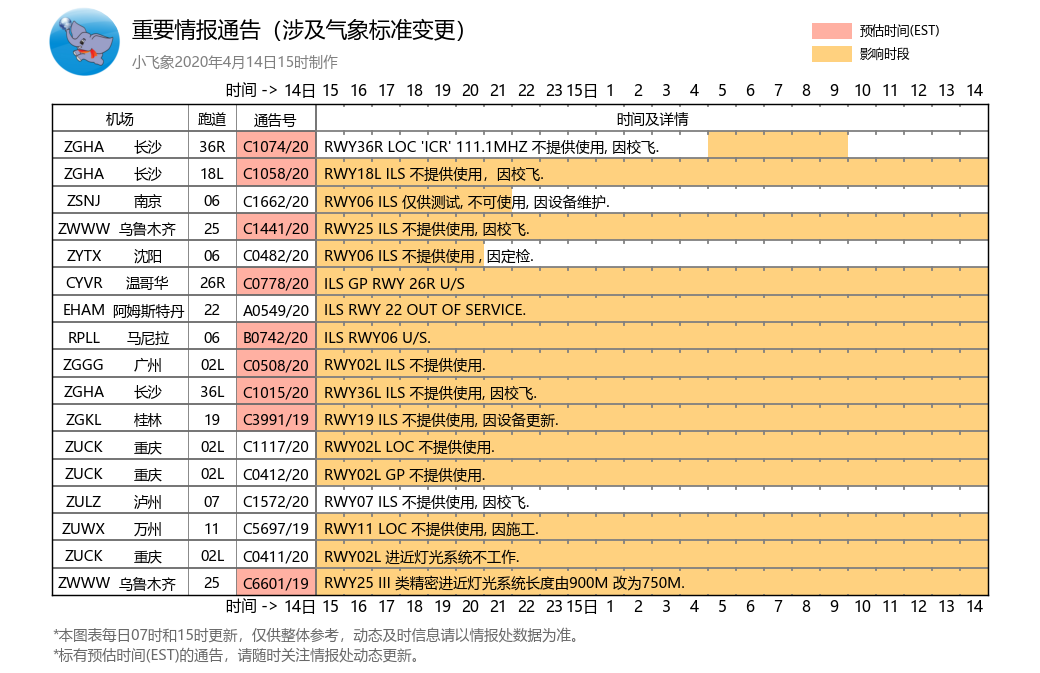
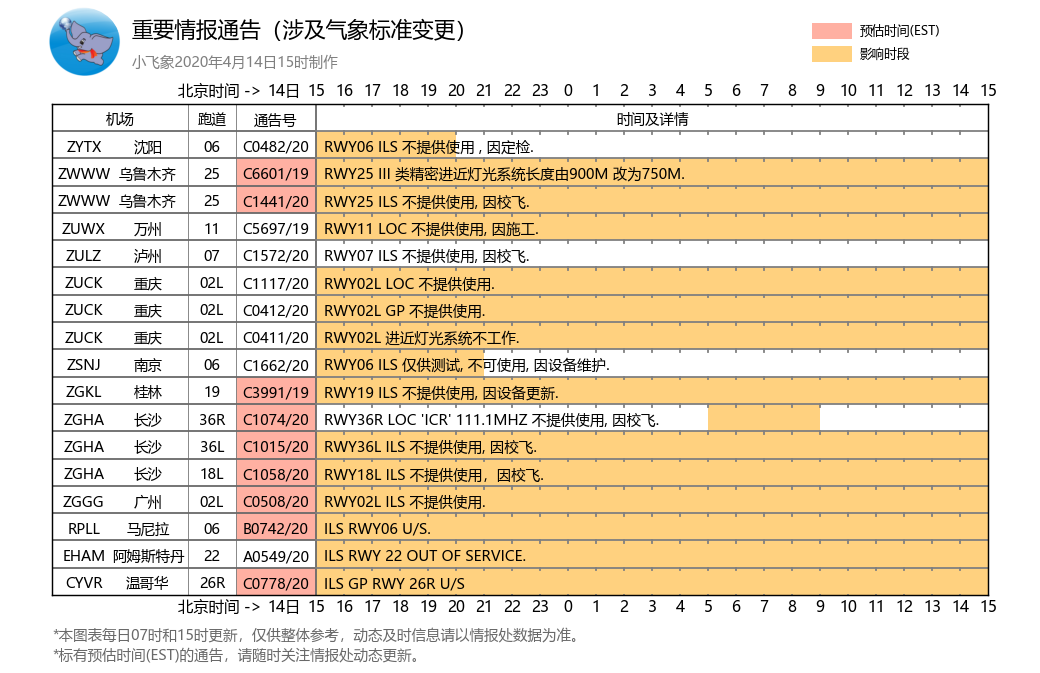
机场排序及刻度调整

diff --git a/dailyais.py b/dailyais.py
@@ -9,14 +9,14 @@ import pandas as pd
 
 filepath = './'
 pypath = 'J:/影响天气/lecay/ais/'
-# now = datetime.datetime.now()
-now = datetime.datetime(2020,4,14,15,10,10)
-if now.hour<4:
+now = datetime.datetime.now()
+#now = datetime.datetime(2020,4,14,15,10,10)
+if now.hour<7:
     dt = datetime.timedelta(hours=-9-now.hour)
 elif now.hour>=15:
     dt = datetime.timedelta(hours=15-now.hour)
 else:
-    dt = datetime.timedelta(hours=4-now.hour)
+    dt = datetime.timedelta(hours=7-now.hour)
 intimenum = now+dt
 intime = intimenum.strftime('%y%m%d%H')
 if os.path.exists(filepath+intime+'.json'):
@@ -48,13 +48,14 @@ for x in range(1,allrow):
 
 # h小时，wy填充下边界y坐标，wid填色宽度，height填色高度，color填色颜色，rim是否画右边界，dheight填色下边高度，isstr是否填写字符，fstr字符内容
 def drawwx(timestr,wy,wid,height,color,dheight=0,isstr=False,fstr='',alpha=1):
-    if timestr[0:2]==intime[4:6]:
+    if timestr[0:2]==intime[4:6]:    #当日
         h = int(timestr[2:])-int(intime[6:])
-    else:
+    else:                            #第二日
         h = int(timestr[2:])+24-int(intime[6:])
-    ax1.fill_between([stawx+(h+1-wid)*0.35,stawx+(h+1)*0.35],wy+height,wy+dheight,facecolor=color,alpha=alpha)
+    if h!=0:
+    	ax1.fill_between([stawx+(h-wid)*0.35,stawx+(h)*0.35],wy+height,wy+dheight,facecolor=color,alpha=alpha)
     if isstr:
-        ax1.text(stawx+(h+1-wid)*0.35+wid*0.175,wy+0.4,fstr,ha='center', va='center',fontproperties=font, size=8)
+        ax1.text(stawx+(h-wid)*0.35+wid*0.175,wy+0.4,fstr,ha='center', va='center',fontproperties=font, size=8)
 
 ax1.text(cnx/2,allrow-0.59,'机场',ha='center', va='center',fontproperties=font, size=8)    #机场四字码
 ax1.text((anx+cnx)/2,allrow-0.63,'跑道',ha='center', va='center',fontproperties=font, size=8)    #跑道号
@@ -65,7 +66,7 @@ cnsta = pd.read_csv(pypath+'stationcn.txt', header=None, sep=r'[\s]+', engine='p
 x = 0
 estcolor = 'tomato'
 infocolor = 'orange'
-for sta,detail in data.items():
+for sta in sorted(data,reverse=True):
     x = x+1
     wy = allrow-1-x
     stainfo = sta.split(); staid = stainfo[0]; rwy = ''.join(stainfo[1:-1])
@@ -74,18 +75,20 @@ for sta,detail in data.items():
     	ax1.text((cnx+fcx)/2-0.05,wy+0.4,cnsta.loc[staid,'cnname'][:5],ha='center', va='center',fontproperties=font, size=8)    #机场四字码
     ax1.text((anx+cnx)/2,wy+0.4,rwy[3:],ha='center', va='center',fontproperties=font, size=8)    #跑道号
     ax1.text((stawx+anx)/2,wy+0.4,stainfo[-1],ha='center', va='center',fontproperties=font, size=8)    #通告号
-    ax1.text(stawx+0.1,wy+0.4,detail['notamContent'],ha='left', va='center',fontproperties=font, size=8)    #通告内容
-    if detail['style'] == 'EST':
+    ax1.text(stawx+0.1,wy+0.4,data[sta]['notamContent'],ha='left', va='center',fontproperties=font, size=8)    #通告内容
+    if data[sta]['style'] == 'EST':
         ax1.fill_between([anx,stawx],wy+1,wy,facecolor=estcolor,alpha=0.5)
-    for t in detail['time']:   #时间填充
-        drawwx(t,wy,1,1,infocolor,alpha=0.5)
-
+    for ti,t in enumerate(data[sta]['time']):   #时间填充
+        if ti>0:
+        	drawwx(t,wy,1,1,infocolor,alpha=0.5)
+        
 ax1.set_xlim((0,allx))
 ax1.set_ylim((0,allrow))
-ax1.set_xticks([stawx-0.8,stawx-0.2]+list(np.arange(stawx+0.175,allx,0.35)))
+ax1.set_xticks([stawx-1.2,stawx-0.4]+list(np.arange(stawx,allx+0.35,0.35)))
 #ax1.set_xticklabels(['时间']+np.arange(0,24,1),fontsize=8.5, fontproperties=font1)
 secday = intimenum + datetime.timedelta(days=1)
-ax1.set_xticklabels(['时间 ->',intime[4:6]+'日']+list(np.arange(intimenum.hour,24,1))+[secday.strftime('%d')+'日']+list(np.arange(1,intimenum.hour,1)), fontproperties=font, size=8.5)
+#ax1.set_xticklabels(['北京时间 ->',intime[4:6]+'日']+list(np.arange(intimenum.hour,24,1))+[secday.strftime('%d')+'日']+list(np.arange(1,intimenum.hour+1,1)), fontproperties=font, size=8.5)
+ax1.set_xticklabels(['北京时间 ->',intime[4:6]+'日']+list(np.arange(intimenum.hour,24,1))+['0']+list(np.arange(1,intimenum.hour+1,1)), fontproperties=font, size=8.5)
 ax1.set_yticks([])
 ax1.tick_params(axis='x', labeltop='True', length=0.01, pad=2)
 ax1.annotate('*本图表每日07时和15时更新，仅供整体参考，动态及时信息请以情报处数据为准。', (0.05,0.25/ysize), xycoords='figure fraction', fontproperties=font, fontsize=8, color='dimgrey')
